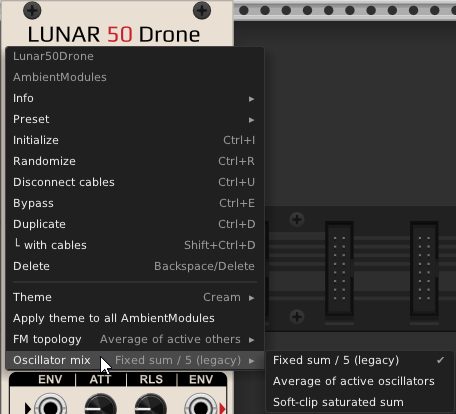
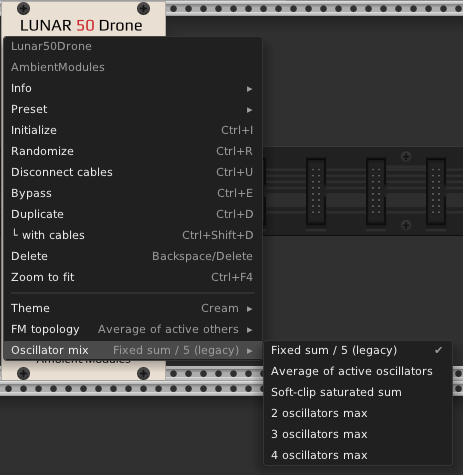
feat(Lunar50Drone): add 2/3/4-oscillator-max mix modes
Add three fixed-divisor Oscillator mix modes (2, 3, and 4 active
oscillators) alongside the existing Fixed/5, Average-of-active, and
Soft-clip modes, calibrated for hitting full level without needing
all 5 oscillators active. Update the context menu, README, and the
Oscillator mix submenu screenshot to match.

diff --git a/src/Lunar50Drone.cpp b/src/Lunar50Drone.cpp
@@ -7,7 +7,7 @@ struct Lunar50Drone : Module {
     static const int NUM_OSC = DroneVoice::NUM_OSC;
     static constexpr float OUTPUT_VOLTAGE = 5.f; // Eurorack ±5V audio convention
 
-    enum MixMode { MIX_FIXED = 0, MIX_AVERAGE_ACTIVE = 1, MIX_SOFT_CLIP = 2 };
+    enum MixMode { MIX_FIXED = 0, MIX_AVERAGE_ACTIVE = 1, MIX_SOFT_CLIP = 2, MIX_MAX2 = 3, MIX_MAX3 = 4, MIX_MAX4 = 5 };
     int mixMode = 0; // 0 = Fixed /5 (legacy), keeps existing patches sounding the same
 
     enum ParamIds {
@@ -164,11 +164,23 @@ struct Lunar50Drone : Module {
             if (envAmount > 0.f) {
                 float mix = voice[c].process(args.sampleTime, args.sampleRate, pitchParams, active, mod, cv, volt);
                 switch (mixMode) {
+                    case MIX_FIXED:
+                        sawOut = OUTPUT_VOLTAGE * mix / NUM_OSC * envAmount; // average of NUM_OSC oscillators, scaled to OUTPUT_VOLTAGE
+                        break;
                     case MIX_AVERAGE_ACTIVE:
                         sawOut = OUTPUT_VOLTAGE * mix / std::max(activeCount, 1) * envAmount;
                         break;
                     case MIX_SOFT_CLIP:
                         sawOut = OUTPUT_VOLTAGE * std::tanh(mix) * envAmount;
+                        break;
+                    case MIX_MAX2:
+                        sawOut = OUTPUT_VOLTAGE * mix / 2.f * envAmount;
+                        break;
+                    case MIX_MAX3:
+                        sawOut = OUTPUT_VOLTAGE * mix / 3.f * envAmount;
+                        break;
+                    case MIX_MAX4:
+                        sawOut = OUTPUT_VOLTAGE * mix / 4.f * envAmount;
                         break;
                     default: // MIX_FIXED
                         sawOut = OUTPUT_VOLTAGE * mix / NUM_OSC * envAmount; // average of NUM_OSC oscillators, scaled to OUTPUT_VOLTAGE
@@ -247,7 +259,7 @@ struct Lunar50DroneWidget : ModuleWidget {
             }
         ));
         menu->addChild(createIndexSubmenuItem("Oscillator mix",
-            {"Fixed sum / 5 (legacy)", "Average of active oscillators", "Soft-clip saturated sum"},
+            {"Fixed sum / 5 (legacy)", "Average of active oscillators", "Soft-clip saturated sum", "2 oscillators max", "3 oscillators max", "4 oscillators max"},
             [=]() { return module->mixMode; },
             [=](int mode) {
                 pushIntFieldChange(module, "change oscillator mix", module->mixMode, mode,

diff --git a/README.md b/README.md
@@ -130,7 +130,7 @@ Five simple sawtooth oscillators sharing one output and one envelope — the Cla
 <a id="lunar50drone-context-menu"></a>
 **Context menu**
 - **FM topology** — how the "Modulation"-enabled oscillators cross-modulate once the Volt knob passes its midpoint: *Average of active others* (each modulated oscillator is pushed by the average of the other active oscillators) or *Circular chain* (each one modulates the next in a loop).
-- **Oscillator mix** — how the 5 oscillator signals combine into the output level: *Fixed sum / 5 (legacy)* (always divides by 5, so muting oscillators lowers the volume), *Average of active oscillators* (keeps output level constant regardless of how many oscillators are active), or *Soft-clip saturated sum* (sums them and soft-clips, for a driven, denser tone).
+- **Oscillator mix** — how the 5 oscillator signals combine into the output level: *Fixed sum / 5 (legacy)* (always divides by 5, so muting oscillators lowers the volume), *Average of active oscillators* (keeps output level constant regardless of how many oscillators are active), *Soft-clip saturated sum* (sums them and soft-clips, for a driven, denser tone), or a fixed *2/3/4 oscillators max* divisor (like the legacy mode but calibrated for that many active oscillators, so 2/3/4 oscillators driven hard hit full level without needing all 5 active).
 
 ![Lunar50Drone FM topology submenu](docs/images/Lunar50Drone_Menu_FMTypologies.png) ![Lunar50Drone Oscillator mix submenu](docs/images/Lunar50Drone_Menu_Mix.png)
 
